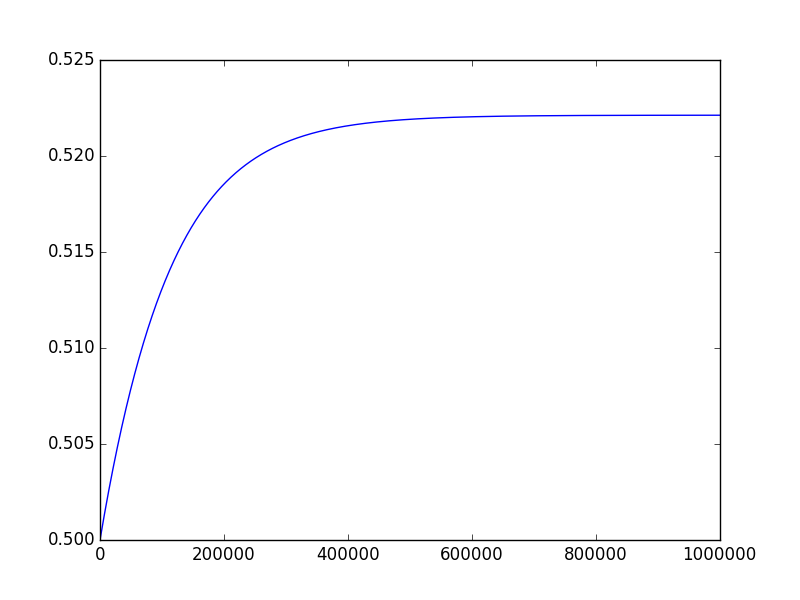
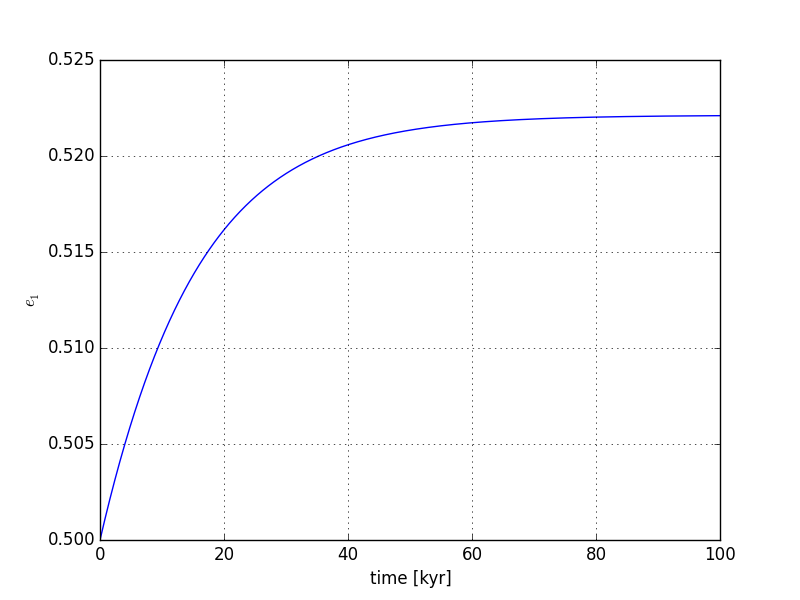
commit

diff --git a/quadrupolar/script_01.py b/quadrupolar/script_01.py
@@ -9,6 +9,7 @@
 import numpy as np
 from scipy.integrate import odeint
 import matplotlib.pyplot as plt
+from Units import units
 
 InDeg = 180/np.pi
 InRad = np.pi/180
@@ -16,18 +17,33 @@ G = 1.0
 
 
 ############################################################
-# Initial values
+# Define canonical units
+
+
+Canonical_Units = units(uM=1.989e30,uL=149.6e9)
+
+uM = Canonical_Units[0]
+uL = Canonical_Units[1]
+uT = Canonical_Units[2]
+
+
+############################################################
+# Constant values
 m_0 = 1.0
-m_1 = 0.6
+m_1 = 0.2
 m_2 = 0.001
 
-a_1     = 0.1
-a_2     = 1.5
-e_1_ini = 0.5
-e_2     = 0.2
-I_ini   = 10*InRad
-z_ini   = np.cos(I_ini) 
-varpi   = 45*InRad
+
+############################################################
+# Initial values
+a_1_ini   = 0.1
+a_2_ini   = 1.5
+e_1_ini   = 0.5
+e_2_ini   = 0.2
+I_ini     = 10*InRad
+z_ini     = np.cos(I_ini) 
+varpi_ini = 45*InRad
+
 
 
 ############################################################
@@ -38,8 +54,8 @@ beta_2 = m_2*(m_0 + m_1) / (m_0 + m_1 + m_2)
 mu_1 = G*(m_0 + m_1)
 mu_2 = G*(m_0 + m_1 + m_2)
 
-gamma_2 = 3.0*G*m_2*beta_1*a_1**2 / ( 4.0*a_2**3*(1.0-e_2**2)**1.5)
-gamma_3 = (15.0/64.0)*( G*m_2*beta_1*a_1**3 / (a_2**4*(1.0-e_2**2))**2.5 )*( (m_0 - m_1)/(m_0 + m_1) )
+gamma_2 = 3*G*m_2*beta_1*a_1_ini**2 / ( 4.0*a_2_ini**3*(1.0-e_2_ini**2)**1.5)
+gamma_3 = (15.0/64.0)*( G*m_2*beta_1*a_1_ini**3 / (a_2_ini**4*(1.0-e_2_ini**2))**2.5 )*( (m_0 - m_1)/(m_0 + m_1) )
 
 
 
@@ -50,8 +66,8 @@ gamma_3 = (15.0/64.0)*( G*m_2*beta_1*a_1**3 / (a_2**4*(1.0-e_2**2))**2.5 )*( (m_
 def diff(y,t):
     e = y[0]
     z = y[1]
-    dedt = 2.5*gamma_2*(1.0-e*e)*e*(1.0-z**2)*np.sin(2*varpi) / np.sqrt( a_1*beta_1**2*mu_1*(1-e**2) )
-    dzdt = e*dedt*z / (1-e**2)
+    dedt = 2.5*gamma_2*(1.0-e**2)*e*(1.0-z**2)*np.sin(2*varpi_ini) / np.sqrt( a_1_ini*beta_1**2*mu_1*(1-e**2) )
+    dzdt = e * dedt * z / (1-e**2)
 
     return [dedt, dzdt]
 
@@ -59,9 +75,26 @@ def diff(y,t):
 
 ############################################################
 # Integration
-time = np.linspace(0.0,1000000,1000)
+t_ini = ( 0 )      *86400*365.25/uT   
+t_end = ( 100000 ) *86400*365.25/uT
+time = np.linspace(t_ini, t_end, 1000)
+
 eta_ini = [e_1_ini, z_ini]
+
 sol = odeint(diff,eta_ini,time)
+
+
+
+############################################################
+# Lidov-Kozai cycles
+
+h_value = np.zeros(len(time))
+
+
+
+for i in range(0,len(h_value)):
+    h_value[i] = np.sqrt(1-sol[i][0]**2)*sol[i][1]
+
 
 
 
@@ -70,13 +103,28 @@ sol = odeint(diff,eta_ini,time)
 
 fig1 = plt.figure()
 ax1 = plt.subplot()
-ax1.plot(time , np.arccos(sol[:,1]))
+ax1.grid()
+ax1.plot(time*uT/(86400*365.25)/1000 , np.arccos(sol[:,1])*InDeg)
+ax1.set_xlabel("time [kyr]")
+ax1.set_ylabel("$I$ [degrees]")
 fig1.savefig("i_vs_t.png")
 
 fig2 = plt.figure()
 ax2 = plt.subplot()
-ax2.plot(time , sol[:,0])
+ax2.grid()
+ax2.plot(time*uT/(86400*365.25)/1000 , sol[:,0])
+ax2.set_xlabel("time [kyr]")
+ax2.set_ylabel("$e_1$")
 fig2.savefig("e_vs_t.png")
+
+fig3 = plt.figure()
+ax3 = plt.subplot()
+ax3.plot(time*uT/(86400*365.25)/1000 , h_value)
+ax3.set_xlabel("time [kyr]")
+ax3.set_ylabel("$\sqrt{1-e_1^2}\cos I$")
+ax3.set_ylim(0.85286820 , 0.85286880)
+ax3.grid()
+fig3.savefig("h_value.png")
 
 
 
